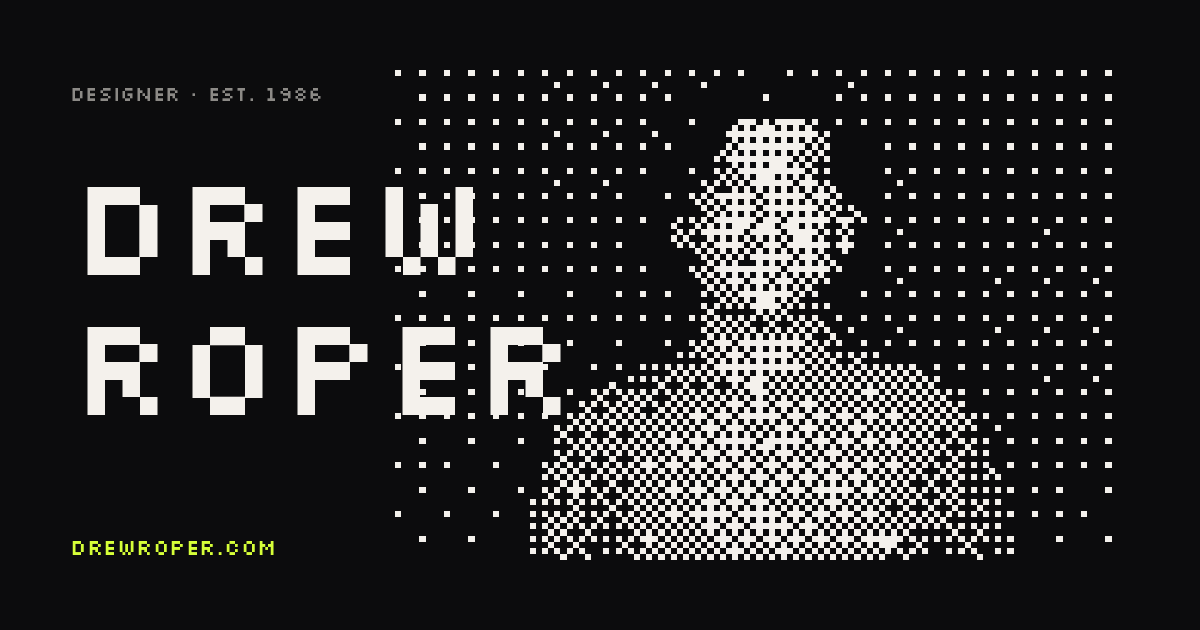
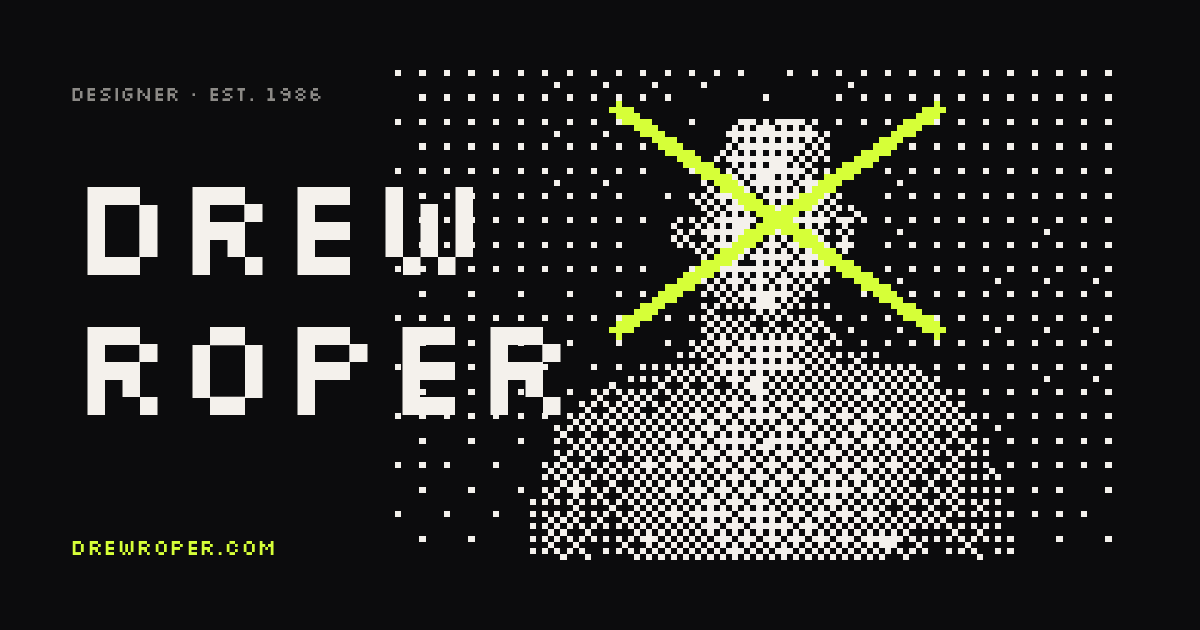
OG image: big lime X across the face + cache bust + lede typo
OG image
- scripts/build-og.py now stamps the same big-X doodle onto the dither
  grid before upscaling, so the X scales up pixelated and shares the
  aesthetic of the rest of the dithered portrait.
- Re-rendered assets/og-image.png.

Cache bust
- og:image and twitter:image URLs now carry ?v=2, which forces
  iMessage / Slack / Twitter / LinkedIn preview services to refetch
  the image instead of pulling their cached old version.

Lede
- Added the missing "on" — "working brand systems" -> "working on brand
  systems".

Changed region(s): [[0.4933, 0.1508, 0.8017, 0.5429], [0.4933, 0.3921, 0.6167, 0.5429]]

diff --git a/index.html b/index.html
@@ -12,12 +12,12 @@
   <meta property="og:description" content="Designer. Currently Anthropic. Previously Stripe, Trunk Club, Dropbox, and Obama 2012." />
   <meta property="og:type" content="website" />
   <meta property="og:url" content="https://drewroper.com" />
-  <meta property="og:image" content="https://drewroper.com/assets/og-image.png" />
+  <meta property="og:image" content="https://drewroper.com/assets/og-image.png?v=2" />
   <meta property="og:image:width" content="1200" />
   <meta property="og:image:height" content="630" />
   <meta property="og:image:alt" content="Drew Roper — drewroper.com" />
   <meta name="twitter:card" content="summary_large_image" />
-  <meta name="twitter:image" content="https://drewroper.com/assets/og-image.png" />
+  <meta name="twitter:image" content="https://drewroper.com/assets/og-image.png?v=2" />
   <meta name="twitter:title" content="Drew Roper — Designer" />
   <meta name="twitter:description" content="Designer. Currently Anthropic. Previously Stripe, Trunk Club, Dropbox, and Obama 2012." />
 
@@ -166,7 +166,7 @@
 
         <div class="hero__about">
           <p class="lede">
-            Drew Roper is a designer working brand systems, creative tooling, and product
+            Drew Roper is a designer working on brand systems, creative tooling, and product
             marketing for ambitious companies. He is currently a Design Lead at Anthropic,
             where he helps shape the way people meet and make things with AI.
           </p>

diff --git a/scripts/build-og.py b/scripts/build-og.py
@@ -79,7 +79,38 @@ def dither_portrait():
     out[binary]  = LIGHT
     out[~binary] = DARK
 
+    # Stamp the big-X doodle right onto the low-res grid so the X
+    # scales up pixelated alongside the dither.
+    _stamp_big_x(out)
+
     return Image.fromarray(out, "RGB").resize((PORTRAIT_W, PORTRAIT_H), Image.NEAREST)
+
+
+def _stamp_big_x(arr):
+    """Two thick diagonal lines crossing at the face. Pixel art on the
+    same grid as the dither so they share aesthetics after upscale."""
+    h, w, _ = arr.shape
+    cx = int(round(w * 0.52))
+    cy = int(round(h * 0.30))
+    hw = int(round(w * 0.22))
+    hh = int(round(h * 0.22))
+
+    # 3-pixel cross brush stamped along each diagonal.
+    brush = [(0, 0), (1, 0), (-1, 0), (0, 1), (0, -1)]
+
+    for x1, y1, x2, y2 in [
+        (cx - hw, cy - hh, cx + hw, cy + hh),
+        (cx + hw, cy - hh, cx - hw, cy + hh),
+    ]:
+        steps = max(abs(x2 - x1), abs(y2 - y1))
+        for i in range(steps + 1):
+            t = i / steps
+            x = int(round(x1 + (x2 - x1) * t))
+            y = int(round(y1 + (y2 - y1) * t))
+            for dx, dy in brush:
+                nx, ny = x + dx, y + dy
+                if 0 <= nx < w and 0 <= ny < h:
+                    arr[ny, nx] = ACCENT
 
 
 def load_font(size, bold=False):
